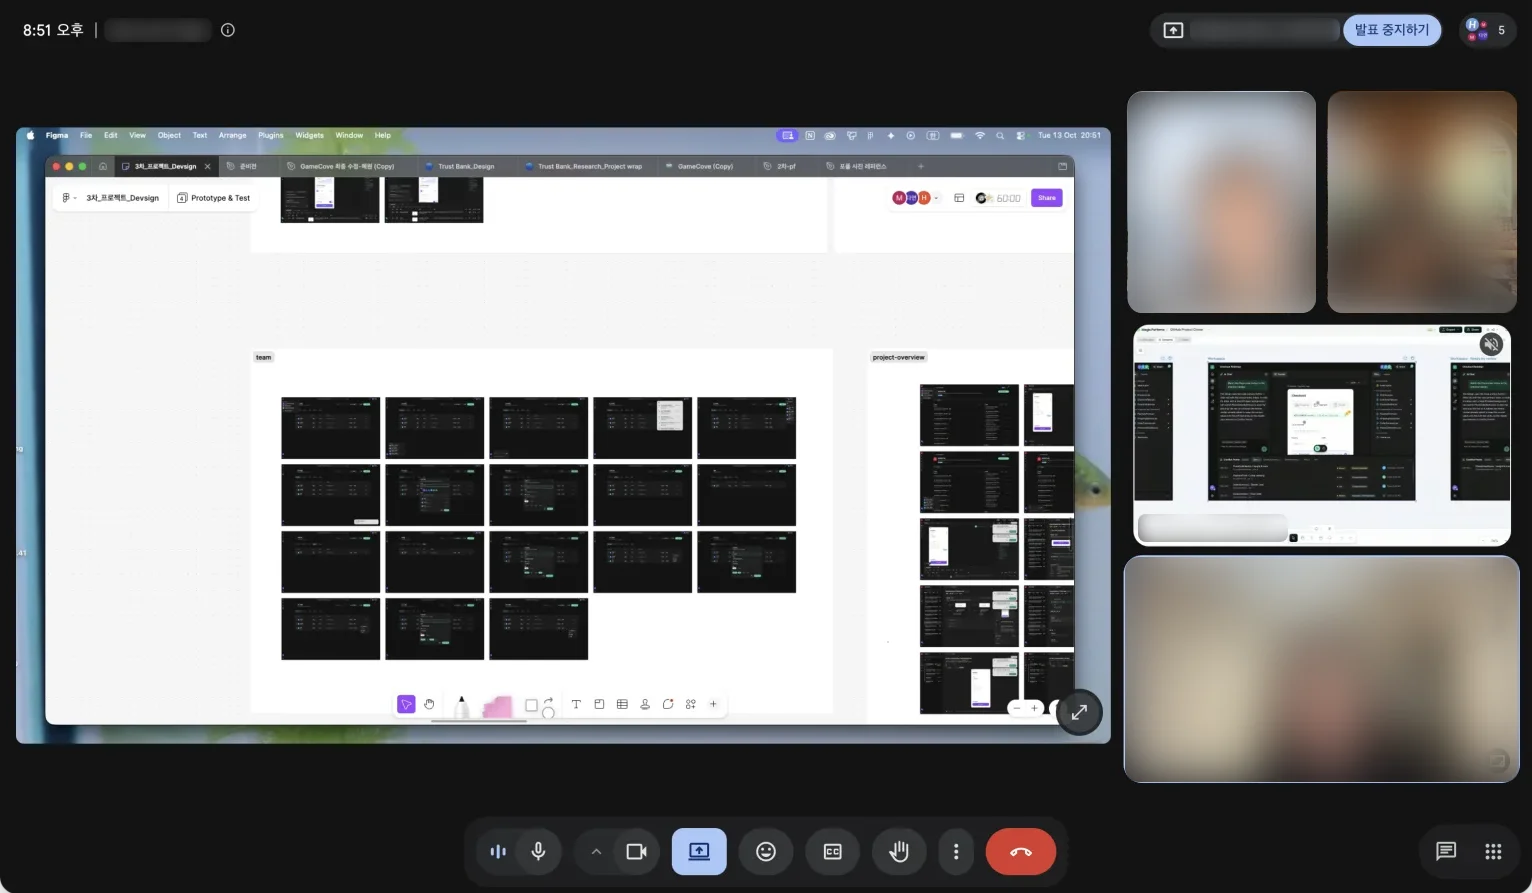
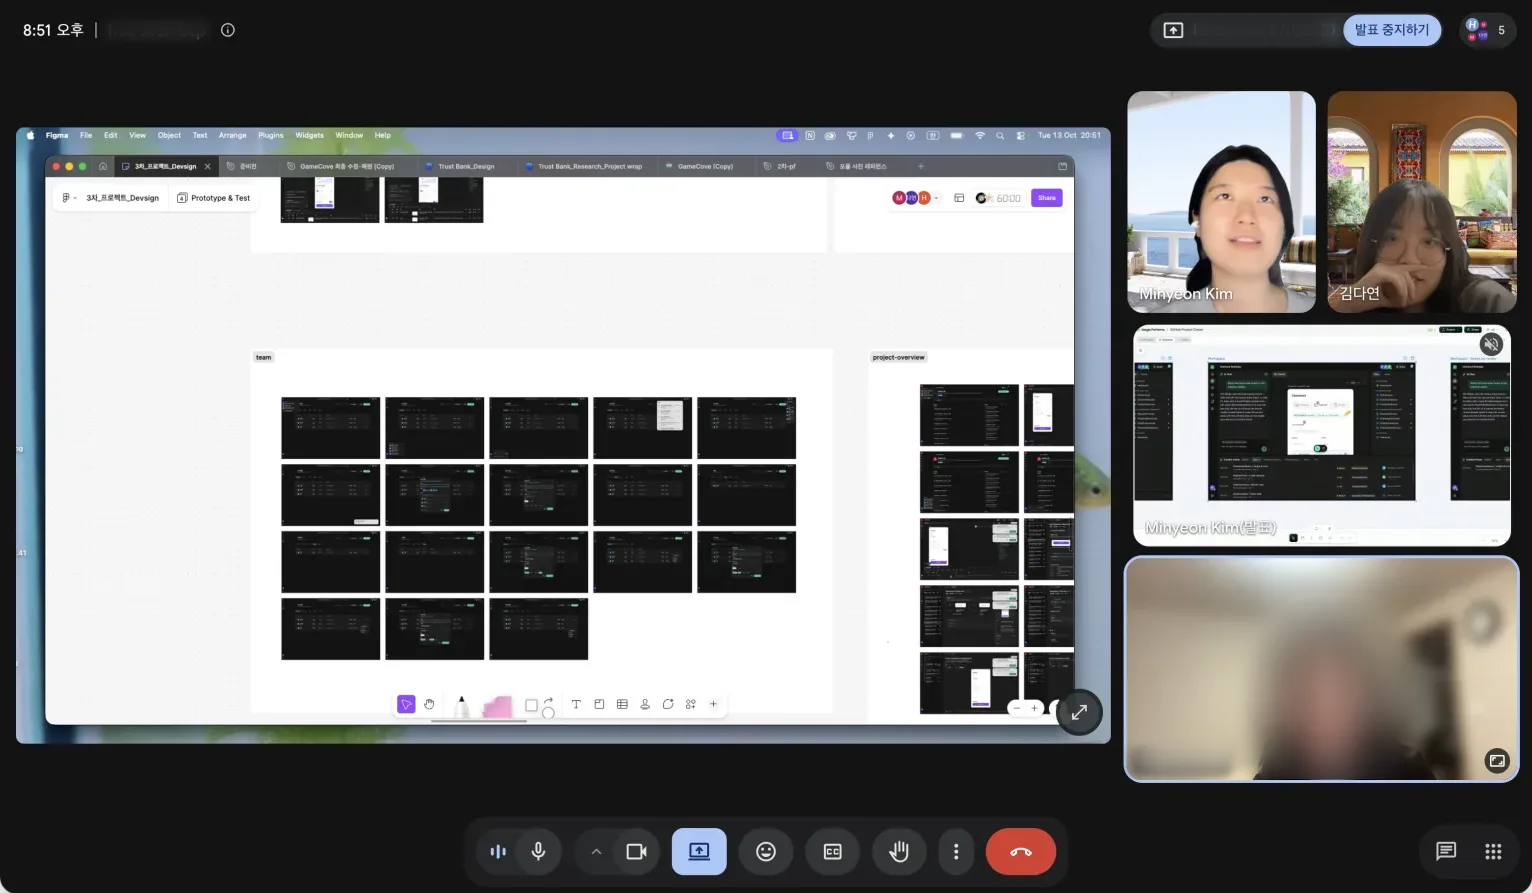
Co-design photo: blur only one person's face and name

diff --git a/claude.md b/claude.md
@@ -1103,3 +1103,5 @@ Key problems are the horizontal accordion again under the affinity board (owner 
 Key problem panels have no quote (owner): role, problem, one sentence, feature, 320px tall. The `affinity.found` rows are gone from Devsign's data; the quotes remain in git history and the FigJam.
 Devsign research questions are three columns (`.dv-keyq`, `interview.questionKeys`; owner chose it): a short keyword (Where it gets stuck / Who decides / Where the reason goes; 어디서 막히나 / 누가 정하나 / 이유는 어디 남나) with the full question under it. No hairlines, numbers or scroll dimming. One column on phones. Gemini keeps `.dv-asks`. Figma not updated.
 Devsign Overview Result card is short (owner: too complicated): "First test missed its goal" / "첫 테스트는 목표 미달", one line on the two rounds of changes and no retest. The 2.3 vs 1.5 numbers live in Testing. Figma not updated.
+
+Co-design photo (codesign-session-blurred.webp, rebuilt from the original at 9ddf49d^, same crop): only Harbor Kim's face and name are blurred, plus the top bar name and the meeting code; Minyeon and 김다연 are shown (owner's call; supersedes "faces, names and the meeting code blurred"). Figma not updated.
